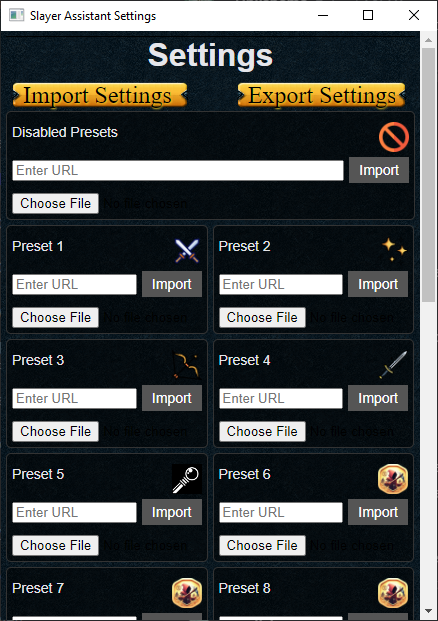
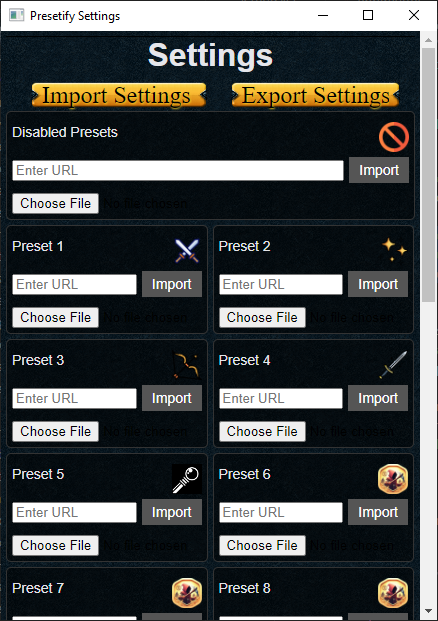
Fixed Title for Settings

Changed region(s): [[0.0297, 0.1224, 0.4749, 0.1836], [0.5342, 0.1224, 0.9201, 0.1836], [0.0594, 0.0, 0.3562, 0.0306]]

diff --git a/src/settings.html b/src/settings.html
@@ -4,7 +4,7 @@
 <head>
     <meta charset="UTF-8">
     <meta name="viewport" content="width=device-width, initial-scale=1.0">
-    <title>Slayer Assistant Settings</title>
+    <title>Presetify Settings</title>
     <link rel="icon" href="./images/icon.png" type="image/png">
     <link rel="stylesheet" href="./styles/default/settings.css">
 </head>
